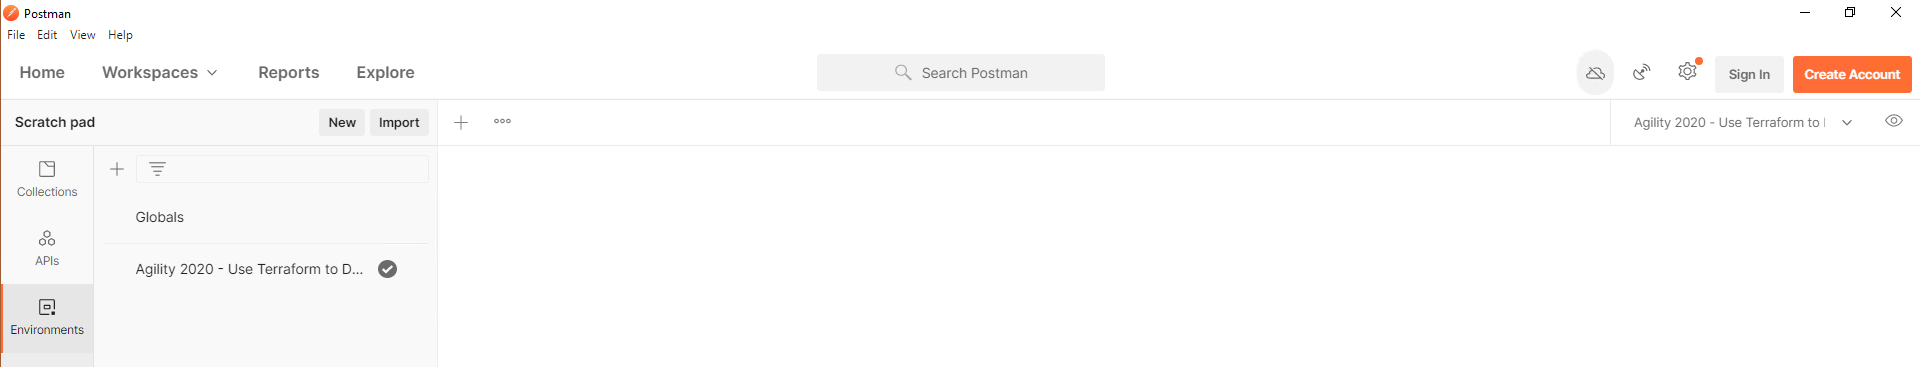
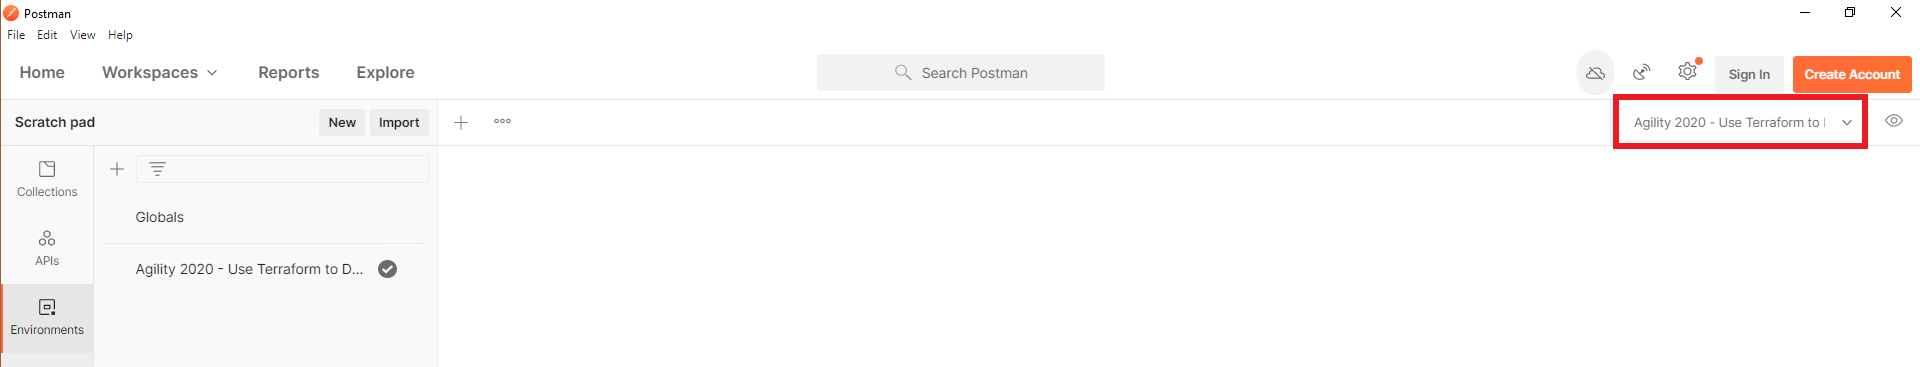
doc updates

diff --git a/docs/class10/module03/lab1.rst b/docs/class10/module03/lab1.rst
@@ -38,19 +38,19 @@ Confirm the **F5 Agility 2021 PC201 Lab** Collection has been imported.
 	   :scale: 50%
 
 
-In the left-pane tab, sellect "Environments" and click "Import" above. Choose "File" as the source to import from and navigate to \\This PC\\Desktop\\postman_rendered.json => [Open].
+In the left-pane tab, sellect "Environments" and click "Import" above. Choose "File" as the source to import from and navigate to **This PC\\Desktop\\postman_rendered.json** and click "Open".
 
 .. image:: ./images/5_postman_import_environment.png
 	   :scale: 50%
 
 
-Close the MANAGE ENVIRONMENTS box.
+Click on "Import" to import the environment.
 
 .. image:: ./images/5_postman_environment_imported.png
 	   :scale: 50%
 
 
-Confirm the environment was successfully imported. Choose "Agility 2020 - Use Terraform to..." from the Environment drop-down menu in the upper-right-hand corner.
+Confirm the environment was successfully imported by selecting the "Agility 2020 - Use Terraform to..." environment from the Environment drop-down menu in the upper-right-hand corner.
 
 .. image:: ./images/00_postman_environment_check.png
 	   :scale: 50%
